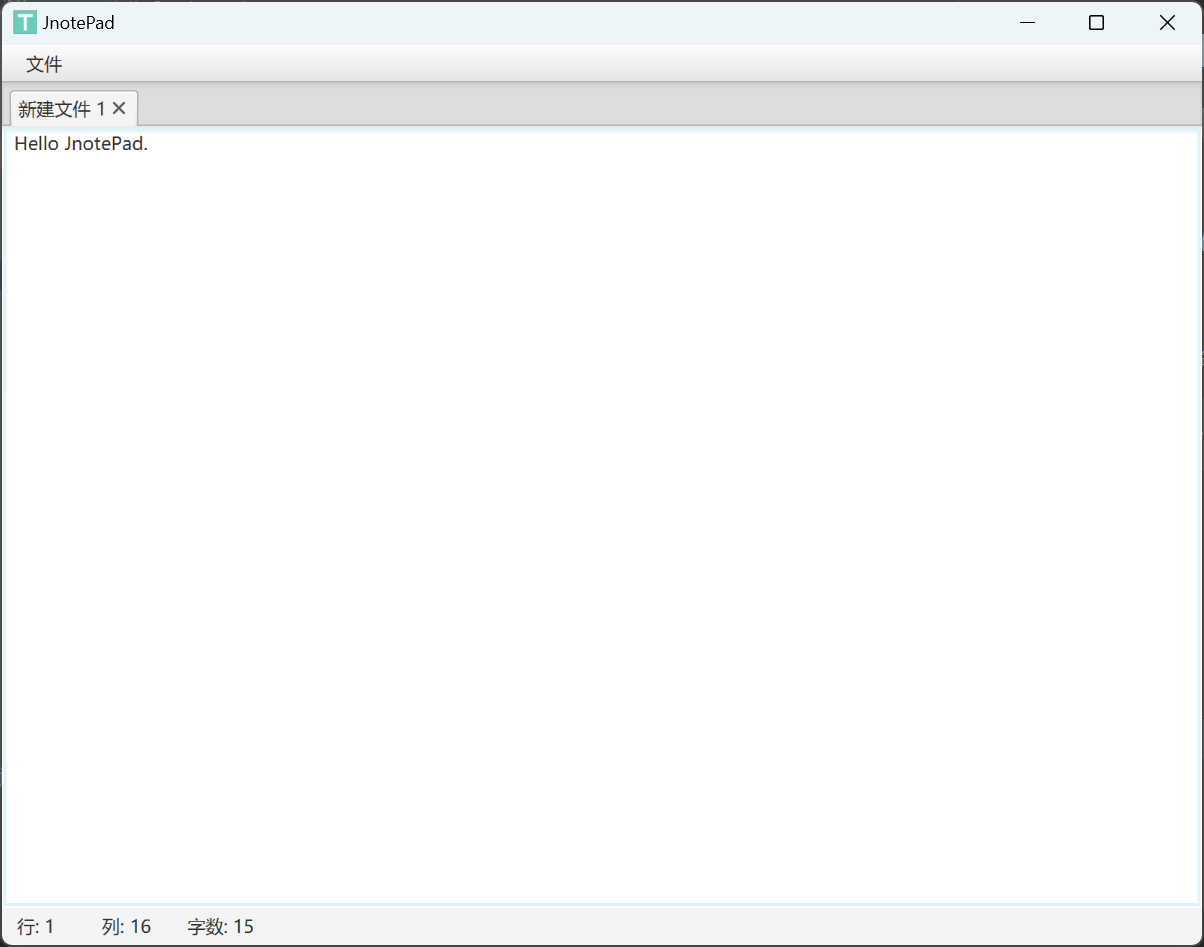
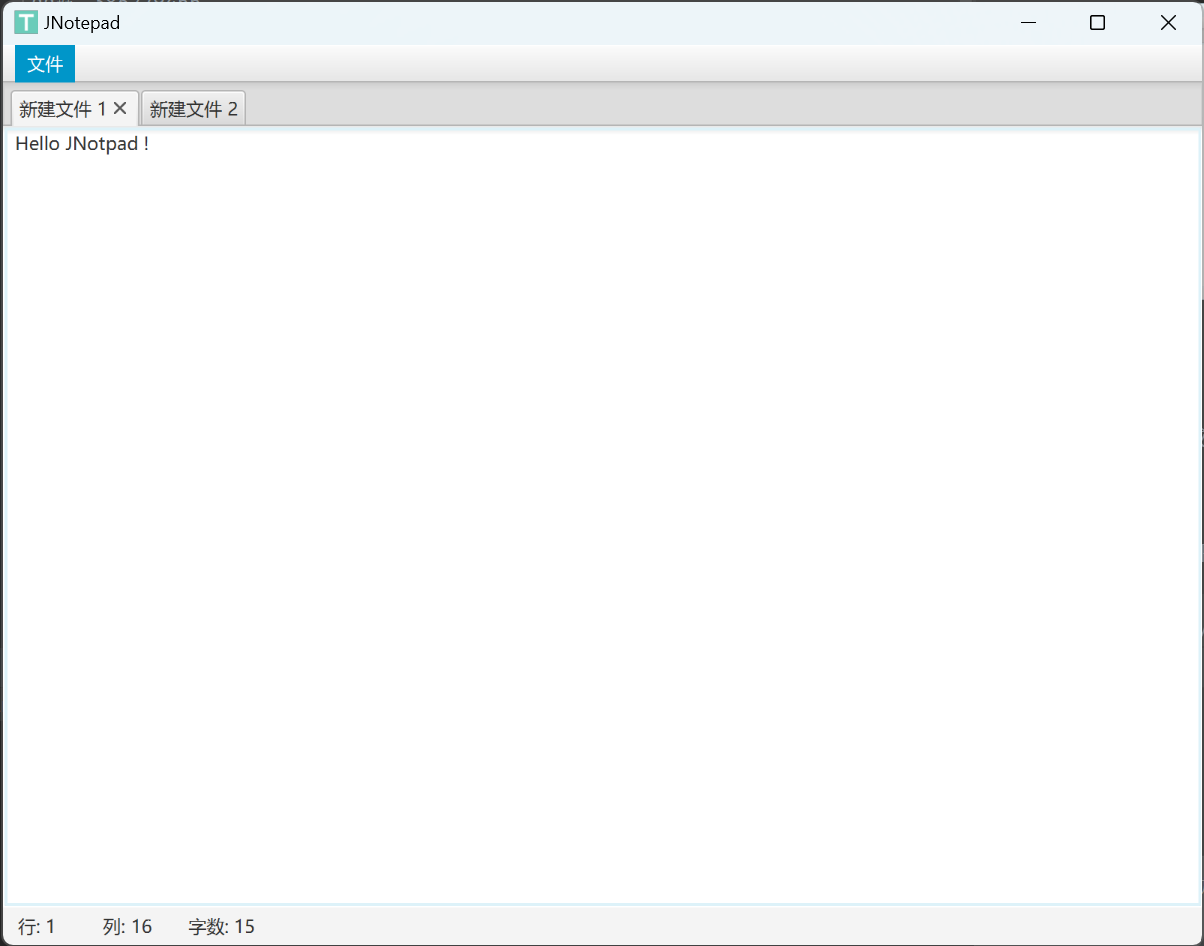
README.md

diff --git a/src/main/java/JNotepad.java b/src/main/java/JNotepad.java
@@ -11,8 +11,10 @@ import javafx.stage.Stage;
 
 import java.io.*;
 
-public class JnotePad extends Application {
+public class JNotepad extends Application {
     String iconSrc = "img/icon.png";
+
+    String Title = "JNotepad";
 
     // 定义菜单栏
     MenuBar menuBar;
@@ -31,7 +33,7 @@ public class JnotePad extends Application {
 
     @Override
     public void start(Stage primaryStage) {
-        primaryStage.setTitle("JnotePad");
+        primaryStage.setTitle(Title);
 
         // 创建菜单栏并添加菜单项
         menuBar = new MenuBar();

diff --git a/README.md b/README.md
@@ -1,4 +1,4 @@
-# Jnotepad
+# JNotepad
 
 ![](https://img.shields.io/badge/Windows-Passing-49%2C198%2C84.svg?style=falt&logo=Windows)
 ![](https://img.shields.io/badge/Ubuntu-Passing-49%2C198%2C84.svg?style=falt&logo=Ubuntu)
@@ -20,7 +20,7 @@ qq群：386279455
 
 2. Linux/MacOS 平台，克隆后自行编译
 
-<pre><code>git clone https://gitee.com/jcnc-PC/jnotepad.git</code></pre>
+<pre><code>git clone https://gitee.com/jcnc-org/JNotepad.git</code></pre>
 
 
 
